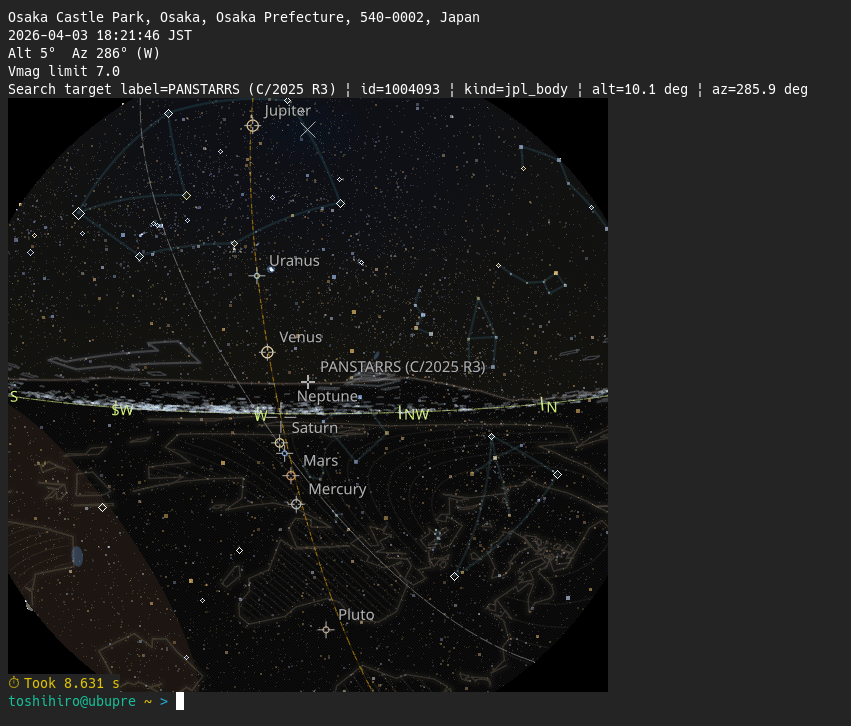
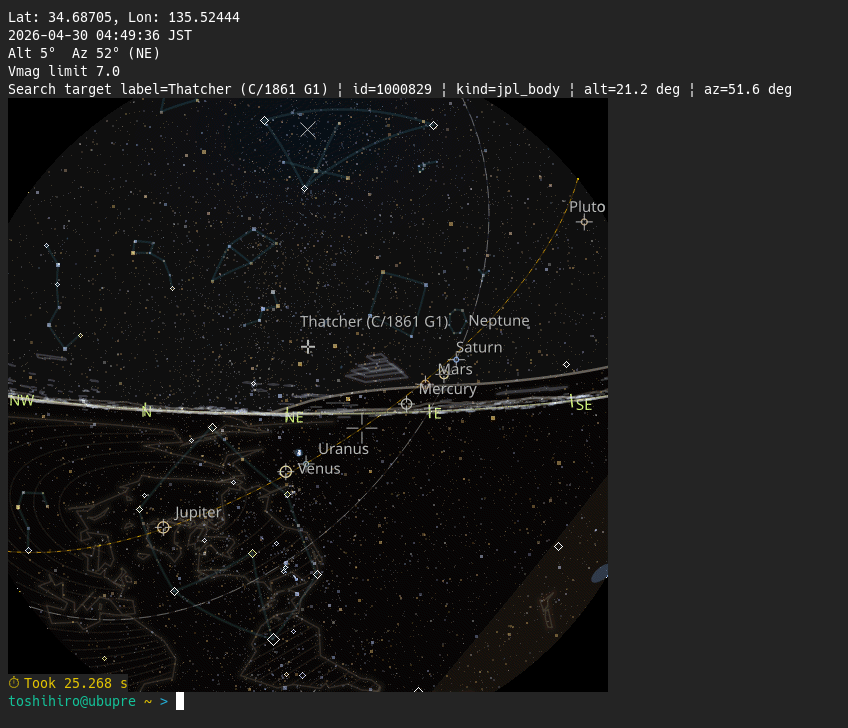
docs: update screenshot6 references
- Refresh screenshot6 wording in all README variants
- Match the new C/1861 G1 Thatcher sixel search output
- Leave unrelated working tree changes unstaged

diff --git a/README_pypi.md b/README_pypi.md
@@ -11,7 +11,7 @@ Locations can be set by city or viewpoint name, direct coordinates, online place
 The first screenshot shows the asterism overlay and also serves as a terrain-horizon example.
 The second screenshot shows the aircraft overlay together with the never-rises region.
 The third screenshot shows a denser star field rendered with `-V10.5 -s4.5`.
-The fourth screenshot shows `zstarview-export-image` searching for and displaying `PANSTARRS (C/2026 R3)` in a sixel terminal.
+The fourth screenshot shows `zstarview-export-image --search "C/1861 G1" --sixel` displaying the Thatcher comet (`C/1861 G1 Thatcher`) in a sixel terminal.
 
 <p align="center">
   <img src="https://raw.githubusercontent.com/tos-kamiya/zstarview/main/docs/images/screenshot1.png" width="49%" alt="Screenshot showing the asterism overlay and a terrain horizon example">
@@ -20,7 +20,7 @@ The fourth screenshot shows `zstarview-export-image` searching for and displayin
 
 <p align="center">
   <img src="https://raw.githubusercontent.com/tos-kamiya/zstarview/main/docs/images/screenshot3.png" width="49%" alt="Screenshot showing a denser star field rendered with -V10.5 -s4.5">
-  <img src="https://raw.githubusercontent.com/tos-kamiya/zstarview/main/docs/images/screenshot6.png" width="49%" alt="Screenshot showing zstarview-export-image searching for and displaying PANSTARRS (C/2026 R3) in a sixel terminal">
+  <img src="https://raw.githubusercontent.com/tos-kamiya/zstarview/main/docs/images/screenshot6.png" width="49%" alt="Screenshot showing zstarview-export-image --search C/1861 G1 --sixel displaying the Thatcher comet (C/1861 G1 Thatcher) in a sixel terminal">
 </p>
 
 Note: higher magnitude limits increase rendering time. See [about magnitude limit](https://github.com/tos-kamiya/zstarview#about-magnitude-limit).

diff --git a/README.md b/README.md
@@ -32,7 +32,7 @@ Locations can be set by city or viewpoint name, direct coordinates, online place
 The first screenshot shows the asterism overlay and also serves as a terrain-horizon example.
 The second screenshot shows the aircraft overlay together with the never-rises region.
 The third screenshot shows a denser star field rendered with `-V10.5 -s4.5`.
-The fourth screenshot shows `zstarview-export-image` searching for and displaying `PANSTARRS (C/2026 R3)` in a sixel terminal.
+The fourth screenshot shows `zstarview-export-image --search "C/1861 G1" --sixel` displaying the Thatcher comet (`C/1861 G1 Thatcher`) in a sixel terminal.
 
   <p align="center">
     <img src="docs/images/screenshot1.png" alt="Screenshot showing the asterism overlay and a terrain horizon example" width="49%" />
@@ -41,7 +41,7 @@ The fourth screenshot shows `zstarview-export-image` searching for and displayin
 
   <p align="center">
     <img src="docs/images/screenshot3.png" alt="Screenshot showing a denser star field rendered with -V10.5 -s4.5" width="49%" />
-    <img src="docs/images/screenshot6.png" alt="Screenshot showing zstarview-export-image searching for and displaying PANSTARRS (C/2026 R3) in a sixel terminal" width="49%" />
+    <img src="docs/images/screenshot6.png" alt="Screenshot showing zstarview-export-image --search C/1861 G1 --sixel displaying the Thatcher comet (C/1861 G1 Thatcher) in a sixel terminal" width="49%" />
   </p>
 
 Note: higher magnitude limits increase rendering time. See [about magnitude limit](#about-magnitude-limit).

diff --git a/README_ja-JP.md b/README_ja-JP.md
@@ -31,7 +31,7 @@
 1枚目の画像は、アステリズム表示と地形地平線の例を示しています。
 2枚目の画像は、航空機オーバレイと昇らない領域を示しています。
 3枚目の画像は、`-V10.5 -s4.5` でより高密度に星を描画した例です。
-4枚目の画像は、`zstarview-export-image` で `PANSTARRS (C/2026 R3)` を検索して sixel 端末に表示した例です。
+4枚目の画像は、`zstarview-export-image --search "C/1861 G1" --sixel` でサッチャー彗星 (`C/1861 G1 Thatcher`) を表示した例です。
 
   <p align="center">
     <img src="docs/images/screenshot1.png" alt="アステリズム表示と地形地平線の例を示すスクリーンショット" width="49%" />
@@ -40,7 +40,7 @@
 
   <p align="center">
     <img src="docs/images/screenshot3.png" alt="-V10.5 -s4.5 で高密度な星空を描画したスクリーンショット" width="49%" />
-    <img src="docs/images/screenshot6.png" alt="`zstarview-export-image` で `PANSTARRS (C/2026 R3)` を検索して sixel 端末に表示したスクリーンショット" width="49%" />
+    <img src="docs/images/screenshot6.png" alt="`zstarview-export-image --search \"C/1861 G1\" --sixel` でサッチャー彗星 (`C/1861 G1 Thatcher`) を表示したスクリーンショット" width="49%" />
   </p>
 
 注意: 等級上限を大きくすると描画時間も増えます。[等級上限オプションについて](#about-magnitude-limit) も参照してください。
